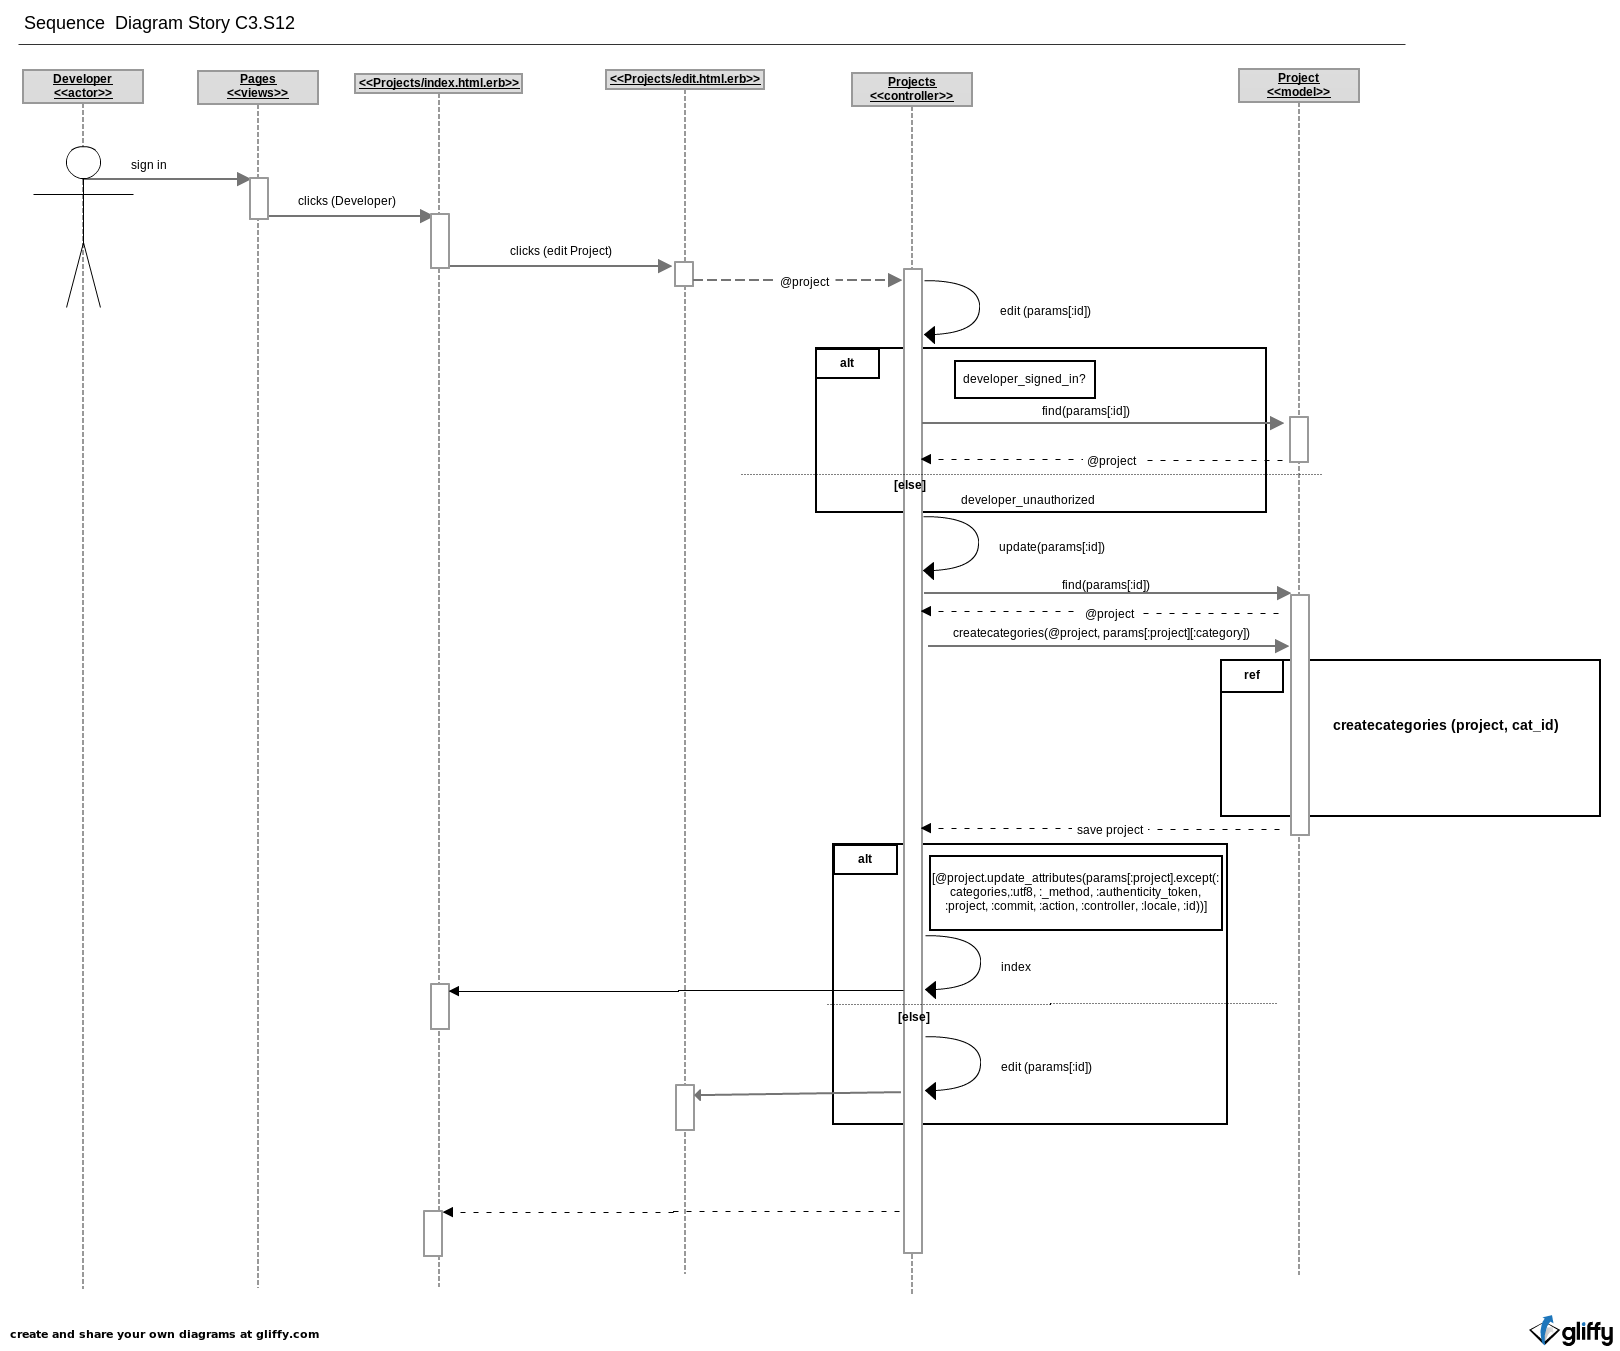
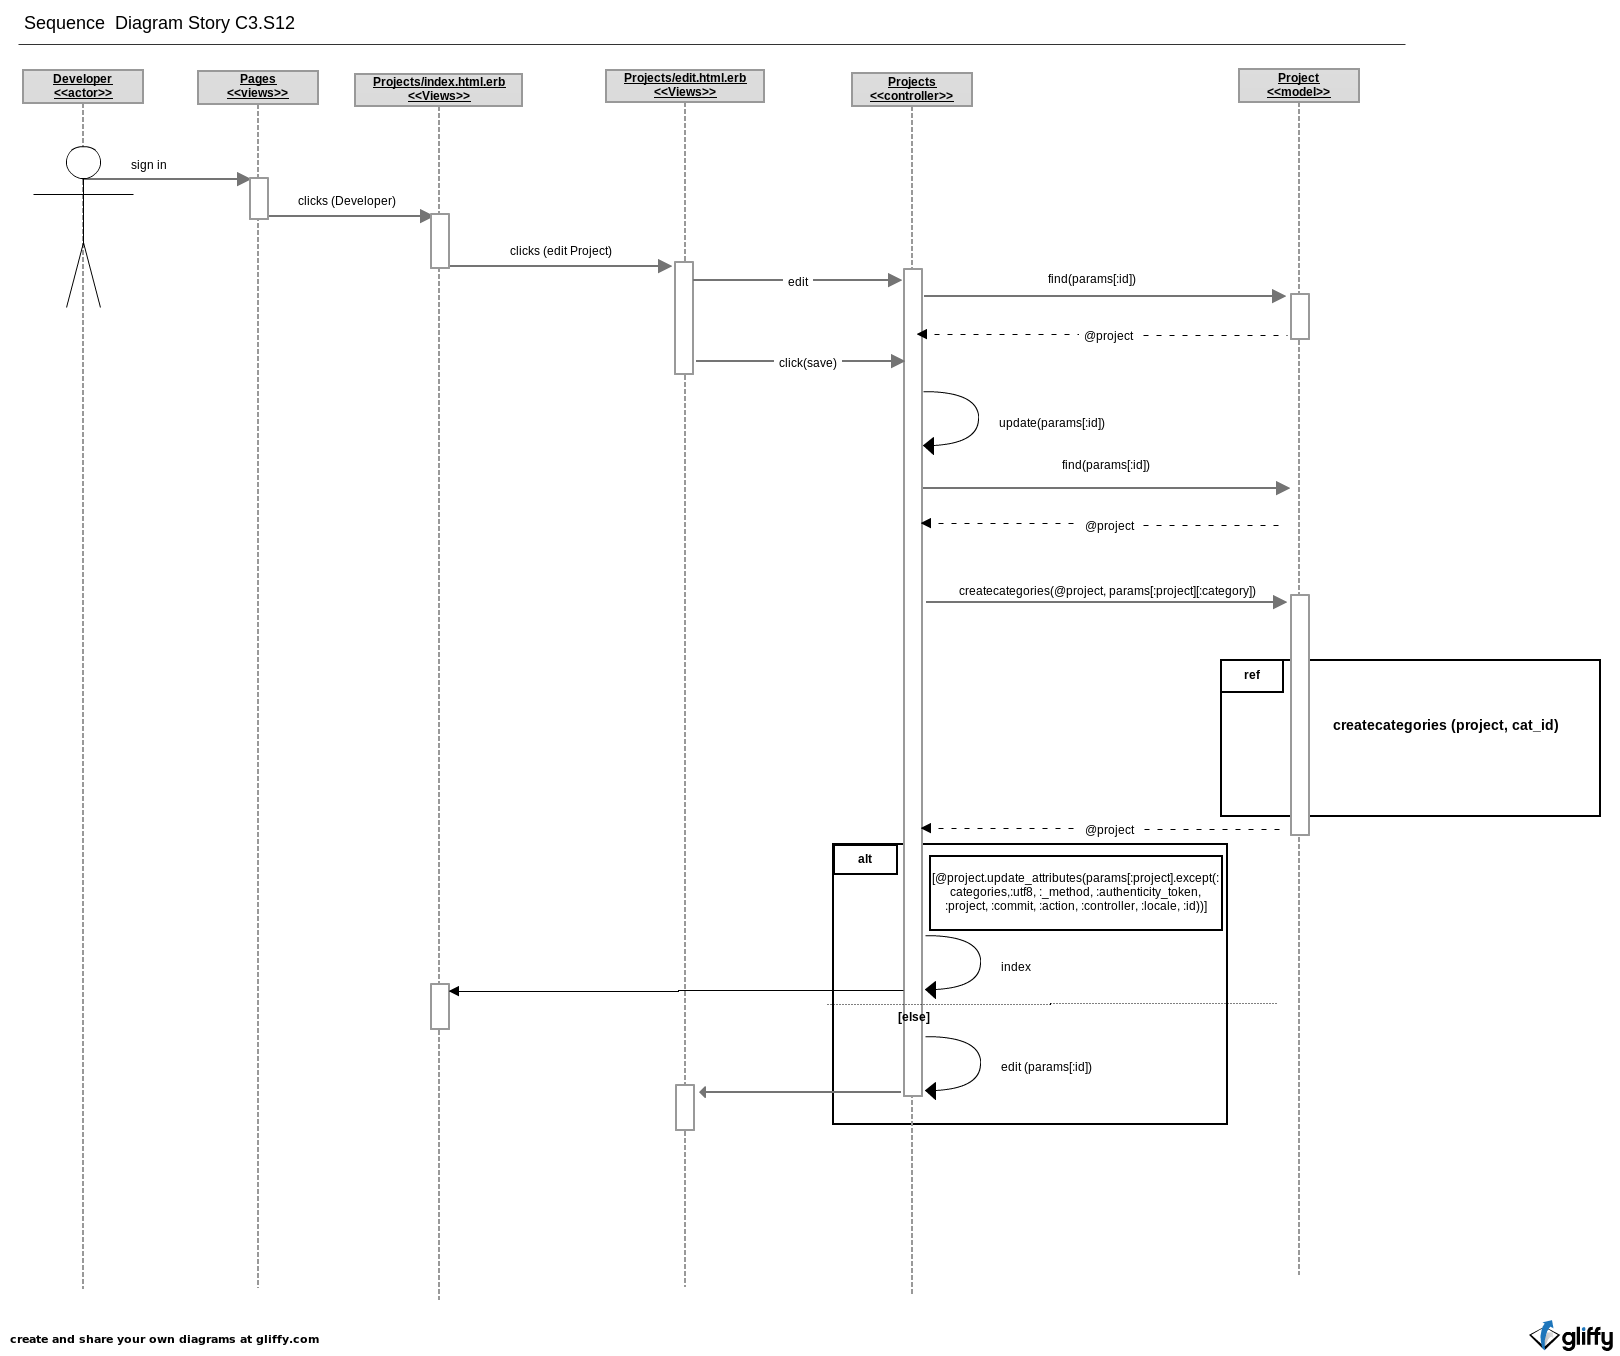
[Issue #77][Issue #205] Fixed UMLs

diff --git a/arability/app/controllers/projects_controller.rb b/arability/app/controllers/projects_controller.rb
@@ -146,11 +146,7 @@ class ProjectsController < BackendController
   # Failure:
   #   None
   def edit
-    if developer_signed_in?
-      @project = Project.find(params[:id])
-    else
-      developer_unauthorized
-    end
+    @project = Project.find(params[:id])
   end
 
   # Author:
